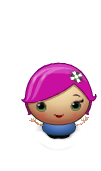
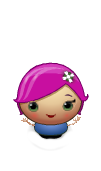
Feat: Add happy chars during victory

Changed region(s): [[0.1188, 0.3509, 0.9802, 0.8187]]

diff --git a/js/app.js b/js/app.js
@@ -106,6 +106,11 @@ var Player = function() {
     'images/char-pink-girl.png',
     'images/char-princess-girl.png'
   ];
+  this.charHappy = [ 'images/char-boy-happy.png',
+  'images/char-cat-girl-happy.png',
+  'images/char-horn-girl-happy.png',
+  'images/char-pink-girl-happy.png',
+  'images/char-princess-girl-happy.png'];
   this.selection = 0;
 };
 
@@ -296,7 +301,7 @@ Player.prototype.handleInput = function( input ) {
     } else if ( input === 'up' ) {
       // going to the top of the game field results in a victory
       if ( this.y <= map.tileHeight ) {
-        this.sprite = 'images/char-boy-happy.png';
+        this.sprite = this.charHappy[this.selection];
         this.victory = true;
         this.togglePause();
         this.victorySpot = this.y;
@@ -360,7 +365,7 @@ var enemyCount = function( count ) {
   player.numEnemies = count;
 };
 
-enemyCount( 30 );
+enemyCount( 10 );
 
 
 // This listens for key presses and sends the keys to your

diff --git a/js/engine.js b/js/engine.js
@@ -184,7 +184,11 @@ var Engine = ( function( global ) {
     'images/char-pink-girl.png',
     'images/char-princess-girl.png',
     'images/char-boy-hurt.png',
-    'images/char-boy-happy.png'
+    'images/char-boy-happy.png',
+    'images/char-cat-girl-happy.png',
+    'images/char-horn-girl-happy.png',
+    'images/char-pink-girl-happy.png',
+    'images/char-princess-girl-happy.png'
   ] );
   Resources.onReady( init );
 
